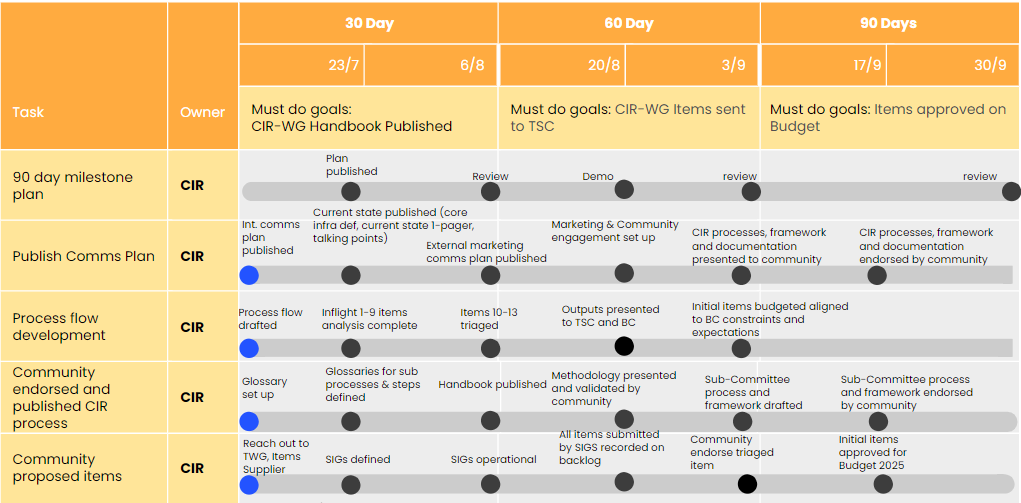
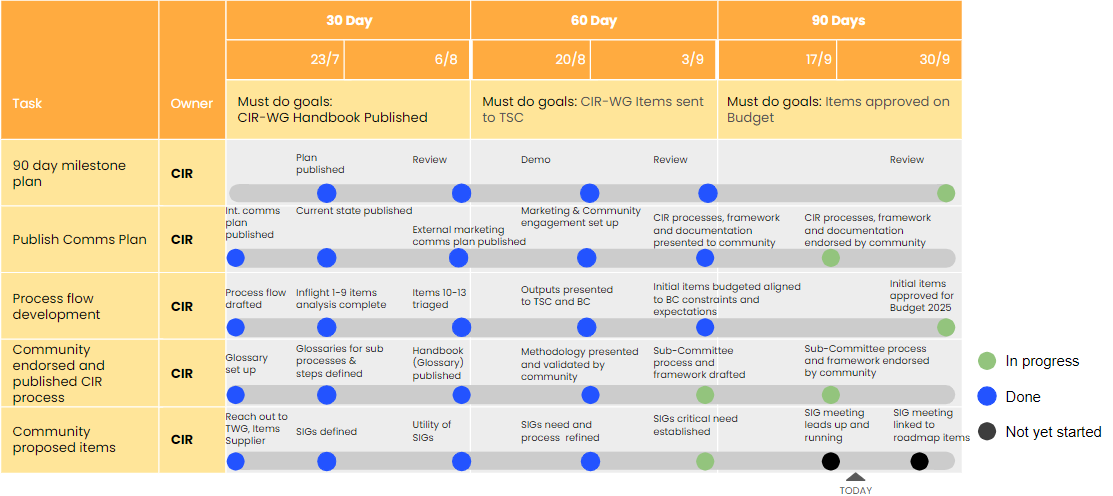
GITBOOK-136: Milestone Plan

diff --git a/working-group/core-infrastructure-roadmap-working-group/working-group-milestones-and-meeting-schedule/README.md b/working-group/core-infrastructure-roadmap-working-group/working-group-milestones-and-meeting-schedule/README.md
@@ -20,7 +20,7 @@ As this is an iterative process, the schedule below will be subject to change ac
 
 The working group has outlined several key milestones to be achieved up to October. These milestones serve as initial benchmarks to guide the group's progress towards their goals. As the group advances, these milestones will be further refined and become more concrete.
 
-<figure><img src="../../../.gitbook/assets/image.png" alt=""><figcaption><p>90-day Milestone Plan (to be updated)</p></figcaption></figure>
+<figure><img src="../../../.gitbook/assets/image (8).png" alt=""><figcaption><p>90 day milestone plan</p></figcaption></figure>
 
 These milestones provide a structured framework for the group to follow, ensuring that efforts are coordinated and focused on achieving the set goals. Regular reviews and adjustments will ensure that the group remains on track and can adapt to any emerging challenges or opportunities.
 
